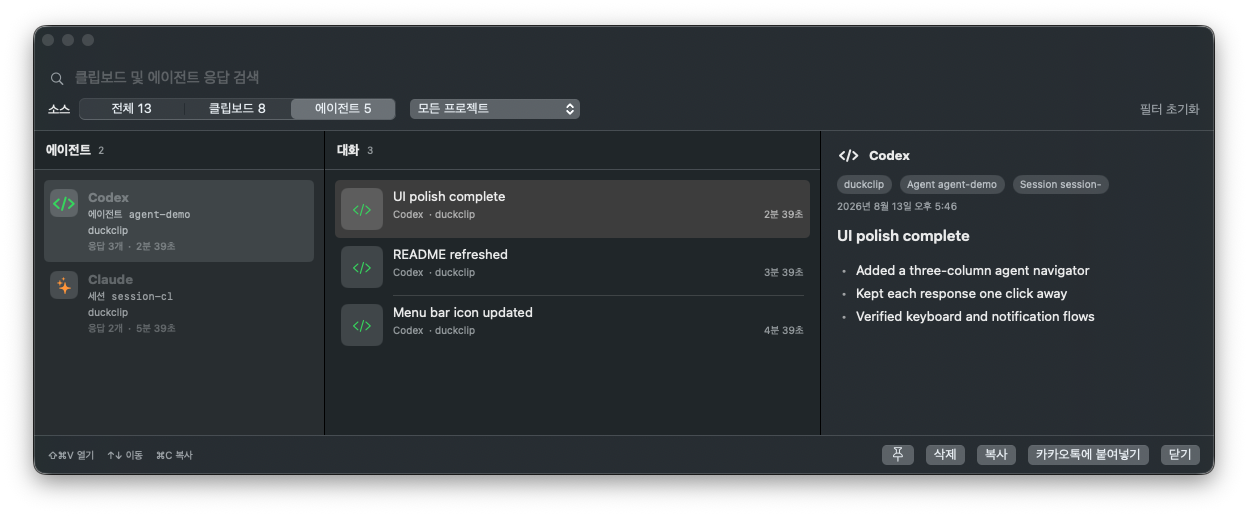
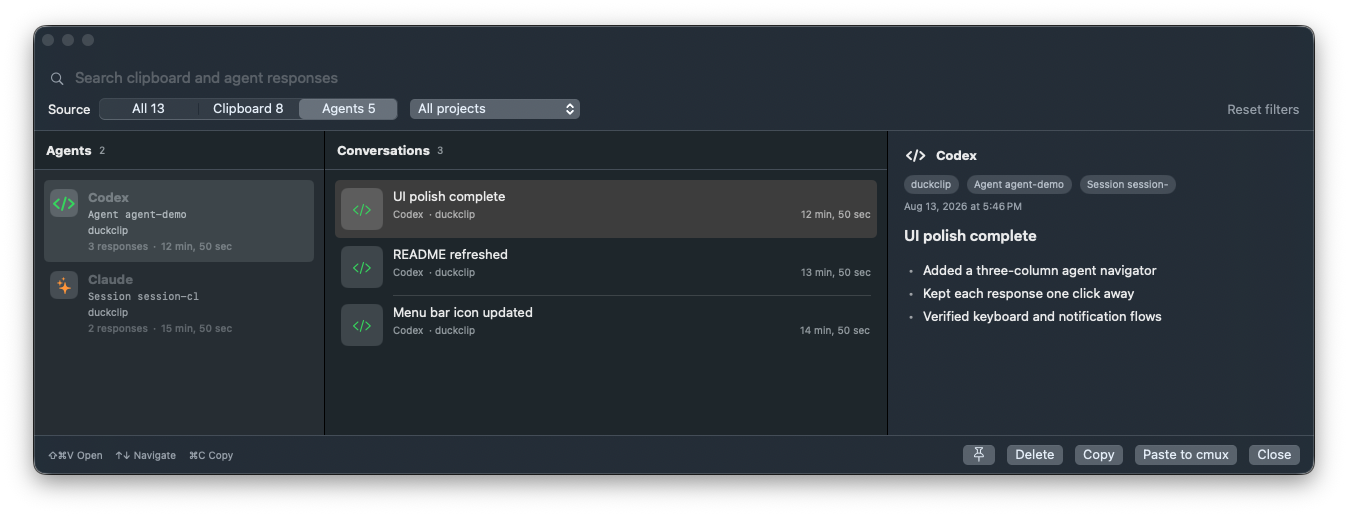
docs: rewrite README for DuckClip users

diff --git a/README.md b/README.md
@@ -7,68 +7,80 @@
 <p align="center"><strong>Copy once. Find anything. Paste anywhere.</strong></p>
 
 <p align="center">
-  클립보드와 Claude Code·Codex 응답을 한곳에서 검색하고,<br>
-  키보드만으로 원하는 앱에 바로 붙여넣는 로컬 우선 macOS 팔레트.
+  A private macOS clipboard history and AI agent inbox,<br>
+  always one keyboard shortcut away.
 </p>
 
 <p align="center">
-  <a href="#빠른-시작">빠른 시작</a> ·
-  <a href="#두-가지-팔레트">데모</a> ·
-  <a href="#왜-duckclip인가요">왜 DuckClip?</a> ·
-  <a href="#에이전트-알림">에이전트 알림</a> ·
-  <a href="#개인정보-보호">개인정보 보호</a> ·
-  <a href="#개발">개발</a>
+  <a href="#get-started">Get started</a> ·
+  <a href="#quick-paste">Quick Paste</a> ·
+  <a href="#the-full-library">Full library</a> ·
+  <a href="#agent-inbox">Agent inbox</a> ·
+  <a href="#keyboard-shortcuts">Shortcuts</a> ·
+  <a href="#privacy">Privacy</a>
 </p>
 
 <p align="center">
-  <img alt="macOS 14+" src="https://img.shields.io/badge/macOS-14%2B-111111?logo=apple&logoColor=white">
-  <img alt="Swift 6" src="https://img.shields.io/badge/Swift-6-F05138?logo=swift&logoColor=white">
+  <img alt="macOS 14 or newer" src="https://img.shields.io/badge/macOS-14%2B-111111?logo=apple&logoColor=white">
   <img alt="Local first" src="https://img.shields.io/badge/data-local--first-20B2AA">
   <img alt="Menu bar app" src="https://img.shields.io/badge/app-menu%20bar-FFD43B">
 </p>
 
 ---
 
-DuckClip은 복사 기록과 코딩 에이전트의 최종 응답을 하나의 검색 가능한 라이브러리로 만듭니다. 깊게 찾을 때는 전체 팔레트, 방금 복사한 것을 바로 붙일 때는 Quick Paste를 사용합니다.
+DuckClip remembers text, links, files, and images you copy. It can also collect finished responses from Claude Code and Codex, so useful answers do not disappear into old sessions.
 
-> DuckClip은 초기 버전입니다. 중요한 정보에 사용하기 전 보존 기간과 개인정보 제외 설정을 확인하세요.
+Use the compact Quick Paste window when you want something recent. Open the full library when you need to search deeper or browse agent conversations.
 
-## 두 가지 팔레트
+> DuckClip is an early release. Review the retention and privacy settings before using it with sensitive information.
 
-### Quick Paste — 생각보다 손이 먼저 움직일 때
-
-<p align="center">
-  <img src="docs/assets/duckclip-quick-paste.png" width="560" alt="DuckClip Quick Paste showing recent clipboard items with Command number shortcuts">
-</p>
-
-`⌃⌘V`를 누르면 최근 클립보드 9개만 담은 작은 패널이 열립니다. 검색하거나 방향키로 고를 수 있고, `⌘1`~`⌘9`를 누르면 해당 항목이 원래 앱에 즉시 붙여넣어집니다. 텍스트·URL·이미지·파일은 썸네일과 원본 앱으로 구분됩니다.
-
-### 전체 팔레트 — 기록과 에이전트 응답을 깊게 찾을 때
+## Quick Paste
 
 <p align="center">
-  <img src="docs/assets/duckclip-demo.png" width="1080" alt="DuckClip three-column agent navigator showing agents, conversations, and response detail">
+  <img src="docs/assets/duckclip-quick-paste.png" width="560" alt="DuckClip Quick Paste showing recent clipboard items with Command-number shortcuts">
 </p>
 
-`⇧⌘V`로 전체 팔레트를 열면 클립보드는 `목록 → 미리보기`, 에이전트 응답은 `에이전트 → 대화 → 본문` 순서로 탐색합니다. 프로젝트 필터와 전체 검색으로 긴 기록을 좁힌 뒤, `Return`으로 붙여넣거나 `⌘C`로 다시 복사할 수 있습니다.
+Press `⌃⌘V` to open a lightweight list of your nine most recent clipboard items.
 
-에이전트 본문은 Markdown 제목·문단·목록을 보존합니다. 현재 필터에 가려진 새 캡처도 상단 배너가 알려줍니다.
+- Press `⌘1` through `⌘9` to paste an item immediately.
+- Type to search the recent list.
+- Use `↑` and `↓`, then press `Return`.
+- Recognize text, URLs, images, and files by their icons, thumbnails, and source apps.
+- See the destination app before anything is pasted.
 
-## 왜 DuckClip인가요?
+Quick Paste closes as soon as the item is sent, so you can stay focused on the app you were already using.
 
-클립보드 도구는 복사 기록만, 에이전트 도구는 각자의 세션만 보여주는 경우가 많습니다. DuckClip은 둘 사이에서 반복되는 탐색과 복사를 줄입니다.
+## The full library
 
-| 불편함 | 보통 생기는 일 | DuckClip의 방식 |
-| --- | --- | --- |
-| 방금 복사한 내용을 잃음 | 원본 앱과 문서를 다시 찾음 | 고정 항목 우선 + 최신순 타임라인 |
-| 스크린샷이 전부 비슷함 | 파일 크기만 보고 하나씩 열어봄 | 썸네일, 해상도, 용량, 원본 앱 표시 |
-| 에이전트 답변이 여러 세션에 흩어짐 | Claude와 Codex를 번갈아 탐색 | 에이전트 → 대화 → 본문의 3단 탐색 |
-| 방금 복사한 항목을 다시 붙임 | 전체 기록 창을 열고 항목을 찾음 | Quick Paste에서 `⌘1`~`⌘9`로 즉시 붙여넣기 |
-| 에이전트가 질문했는데 놓침 | 작업이 입력 대기 상태로 멈춤 | 완료·입력·승인·실패 알림을 개별 제어 |
-| 붙여넣기 목적지가 불분명함 | 엉뚱한 앱으로 전송할 수 있음 | `Safari에 붙여넣기`처럼 대상 앱을 명시 |
+<p align="center">
+  <img src="docs/assets/duckclip-demo.png" width="1080" alt="DuckClip agent library showing agents, conversations, and response details in three columns">
+</p>
 
-## 빠른 시작
+Press `⇧⌘V` when you need the complete DuckClip library.
 
-요구 사항: macOS 14 이상, Swift 6 도구 체인, Xcode Command Line Tools.
+- Search across clipboard history and agent responses.
+- Filter by source and project.
+- Pin important items above the regular timeline.
+- Preview screenshots with their dimensions and file size.
+- Preview URLs and copied files before using them.
+- Copy an item again or paste it back into the app you came from.
+
+The clipboard view uses a simple list and preview. The Agents view uses three clear steps: **agent → conversation → response**. Agent responses preserve Markdown headings, paragraphs, and lists.
+
+## Why DuckClip?
+
+| When this happens | DuckClip helps by |
+| --- | --- |
+| A recent copy is replaced before you paste it | Keeping a searchable history, with pinned items at the top |
+| Screenshots all look alike | Showing thumbnails, dimensions, file size, and source app |
+| Claude and Codex answers are spread across sessions | Organizing them as agent → conversation → response |
+| You only need the thing you copied a moment ago | Letting you paste it with `⌘1` through `⌘9` in Quick Paste |
+| An agent finishes or needs your attention | Sending optional completion, input, approval, and failure notifications |
+| You are unsure where an item will go | Naming the destination app before paste |
+
+## Get started
+
+DuckClip currently supports macOS 14 or newer. Until packaged downloads are available, build the app with Swift 6 and the Xcode Command Line Tools:
 
 ```bash
 git clone https://github.com/dksung94/duckclip.git
@@ -79,113 +91,70 @@ ditto dist/DuckClip.app /Applications/DuckClip.app
 open /Applications/DuckClip.app
 ```
 
-처음 실행하면 로컬 저장 방식과 기본 단축키를 안내합니다. 자동 붙여넣기와 에이전트 알림은 필요할 때만 권한을 요청합니다.
+DuckClip appears as a duck in the menu bar and does not take up space in the Dock. The first-run guide explains local storage and the default shortcuts.
 
-메뉴바에는 문서 대신 단색 오리 아이콘이 표시되며, 기록 일시 정지나 단축키 오류가 있으면 상태 아이콘으로 바뀝니다.
+Automatic paste needs macOS Accessibility permission. DuckClip asks for it only when you enable or use a feature that pastes on your behalf. You can still copy an item without granting that permission.
 
-### Claude Code와 Codex 연결
+## What DuckClip remembers
 
-DuckClip에서 `설정 → Agents → Connections → Install or Update Integrations`를 누릅니다. 설치 후 각 공급자의 `Test` 버튼으로 이벤트 전달을 확인할 수 있습니다.
+- Text and URLs
+- Files copied from Finder
+- Screenshots and other clipboard images
+- Final responses from Claude Code
+- Final responses from Codex
+- The project, agent, and session information attached to those responses
 
-Codex가 새 훅의 신뢰 여부를 물으면 Codex에서 `/hooks`를 실행해 확인하세요. DuckClip은 기존 훅을 보존하고 자신이 관리하는 명령만 추가하거나 제거합니다.
+Unpinned items can be kept for 1 to 365 days. You choose the retention period in Settings.
 
-## 무엇을 기억하나요?
+## Agent inbox
 
-- 텍스트와 URL
-- Finder에서 복사한 파일
-- 스크린샷과 일반 이미지
-- Claude Code 최종 응답
-- Codex 최종 응답
-- 프로젝트, 에이전트, 세션 메타데이터
+To connect Claude Code and Codex:
 
-검색은 SQLite FTS5를 사용하며, 이미지는 앱의 로컬 Blob 저장소에 보관합니다. 고정하지 않은 항목의 보존 기간은 1일에서 365일까지 설정할 수 있습니다.
+1. Open **Settings → Agents → Connections**.
+2. Select **Install or Update Integrations**.
+3. Use the **Test** button beside each provider to confirm that events are arriving.
 
-## 에이전트 알림
+If Codex asks whether a new hook should be trusted, run `/hooks` in Codex and review it there. DuckClip preserves your existing hooks and only manages its own entries.
 
-`설정 → Agents → Notifications`에서 필요한 알림만 켤 수 있습니다.
+### Notifications
 
-| 알림 | 의미 |
+Open **Settings → Agents → Notifications** to choose exactly which events should interrupt you.
+
+| Notification | What it means |
 | --- | --- |
-| 응답 완료 | Claude Code 또는 Codex가 최종 답변을 마침 |
-| 사용자 입력 대기 | 에이전트가 선택이나 추가 정보를 기다림 |
-| 승인 필요 | 도구 실행 또는 권한 승인이 필요함 |
-| 에이전트 실패 | 에이전트가 오류로 중단됨 |
+| Response completed | Claude Code or Codex finished a response |
+| Waiting for your input | The agent needs a choice or more information |
+| Approval required | A tool or permission is waiting for approval |
+| Agent failed | The agent stopped because of an error |
 
-알림 내용은 `상태만`, `응답 미리보기`, `숨김` 중에서 선택할 수 있으며, 설정 화면에서 네 종류를 각각 테스트할 수 있습니다. 실제 이벤트 지원 범위는 설치된 Claude Code·Codex 훅 버전에 따라 달라질 수 있습니다.
+Notification previews can show status only, the first line of a response, or no response content. Each notification type has its own test action. Available events can vary with the installed Claude Code or Codex hook version.
 
-## 키보드로 끝내기
+## Keyboard shortcuts
 
-| 키 | 동작 |
+| Shortcut | Action |
 | --- | --- |
-| `⇧⌘V` | DuckClip 열기 |
-| `⌃⌘V` | Quick Paste 열기 |
-| `⌘1` … `⌘9` | Quick Paste의 해당 항목 즉시 붙여넣기 |
-| `↑` `↓` | 항목 이동 |
-| `Return` | 선택 항목 붙여넣기 또는 복사 |
-| `⌘C` | 선택 항목 복사 |
-| `Delete` | 선택 항목 삭제 |
-| `⌘Z` | 최근 삭제 실행 취소 |
-| `Esc` | 팔레트 닫기 |
+| `⇧⌘V` | Open the full DuckClip library |
+| `⌃⌘V` | Open Quick Paste |
+| `⌘1` … `⌘9` | Paste the matching Quick Paste item immediately |
+| `↑` `↓` | Move through items |
+| `Return` | Paste or copy the selected item |
+| `⌘C` | Copy the selected item |
+| `Delete` | Delete the selected item |
+| `⌘Z` | Undo the most recent deletion |
+| `Esc` | Close the current palette |
 
-전체 팔레트 단축키는 설정에서 `⇧⌘V`, `⌥⌘V`, `⌃⌥V` 중 선택할 수 있습니다. Quick Paste는 `⌃⌘V`를 사용합니다. 단축키 등록에 실패하면 메뉴바와 설정에서 바로 알려줍니다.
+The full-library shortcut can be changed to `⇧⌘V`, `⌥⌘V`, or `⌃⌥V` in Settings. Quick Paste uses `⌃⌘V`. If macOS or another app has already claimed a shortcut, DuckClip shows the conflict in the menu bar and Settings.
 
-## 개인정보 보호
+## Privacy
 
-DuckClip은 클라우드 동기화 없이 이 Mac 안에서만 동작합니다.
+DuckClip is local-first. There is no cloud account or clipboard sync, and its data stays in `~/Library/Application Support/DuckClip`.
 
-- 비밀번호 관리자와 concealed/transient pasteboard 콘텐츠는 기본적으로 기록하지 않습니다.
-- 기록에서 제외할 애플리케이션을 직접 선택할 수 있습니다.
-- 에이전트 응답에서 제외할 프로젝트 폴더를 지정할 수 있습니다.
-- 자동 붙여넣기에만 macOS 손쉬운 사용 권한이 필요합니다.
-- Quick Paste의 즉시 붙여넣기도 같은 손쉬운 사용 권한을 사용하며, 권한이 없으면 복사로 전환할 수 있습니다.
-- 알림 권한은 사용자가 에이전트 알림을 켜는 시점에만 요청합니다.
-
-저장 위치는 `~/Library/Application Support/DuckClip`입니다.
-
-## 동작 방식
-
-```mermaid
-flowchart LR
-    A[macOS Clipboard] --> M[Clipboard Monitor]
-    B[Claude Code] --> H[Managed Hooks]
-    C[Codex] --> H
-    M --> S[(SQLite FTS5<br>+ Local Blobs)]
-    H --> S
-    S --> P[DuckClip Palette]
-    P --> D[Copy]
-    P --> E[Paste to active app]
-    H --> N[macOS Notifications]
-```
-
-DuckClip은 메뉴바 앱으로 실행되며 Dock을 차지하지 않습니다. 팔레트는 현재 작업 중인 디스플레이에 나타나고, 마지막 위치와 크기를 기억합니다.
-
-## 개발
-
-```bash
-# 디버그 빌드
-swift build --product DuckClip
-
-# XCTest 없이 실행 가능한 핵심 검사
-swift run DuckClipChecks
-
-# 릴리스 앱 번들 생성
-./scripts/build-app.sh
-
-# Claude/Codex 연동 상태 확인
-swift run duckclipctl status \
-  --helper dist/DuckClip.app/Contents/MacOS/duckclip-hook
-```
-
-주요 구성:
-
-```text
-Sources/DuckClipApp/     전체/Quick Paste 팔레트, 설정, 메뉴바, 알림
-Sources/DuckClipCore/    저장소, 검색, 캡처, 훅, 붙여넣기
-Sources/DuckClipHook/    Claude/Codex 이벤트 수집 helper
-Sources/DuckClipCtl/     연동 설치·진단 CLI
-Checks/                  독립 실행형 핵심 검사
-scripts/                 앱 패키징과 배포 스크립트
-```
+- Password-manager and protected or temporary pasteboard content is not recorded by default.
+- You can exclude specific applications from clipboard recording.
+- You can exclude project folders and their descendants from agent response collection.
+- Accessibility permission is used only for automatic paste and Quick Paste.
+- Notification permission is requested only when you turn on agent notifications.
+- Pausing clipboard recording is always available from the menu bar.
 
 ---
 
